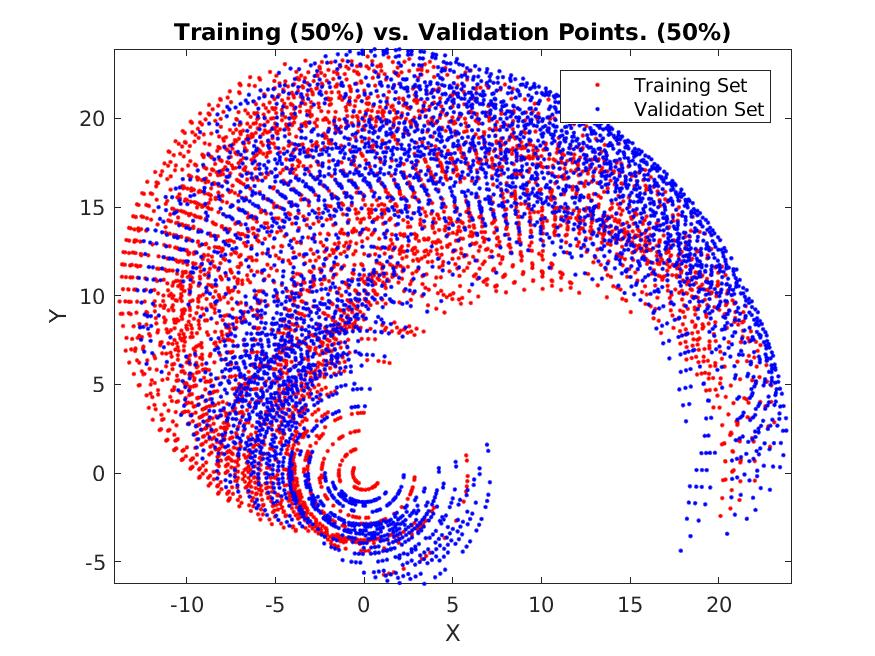
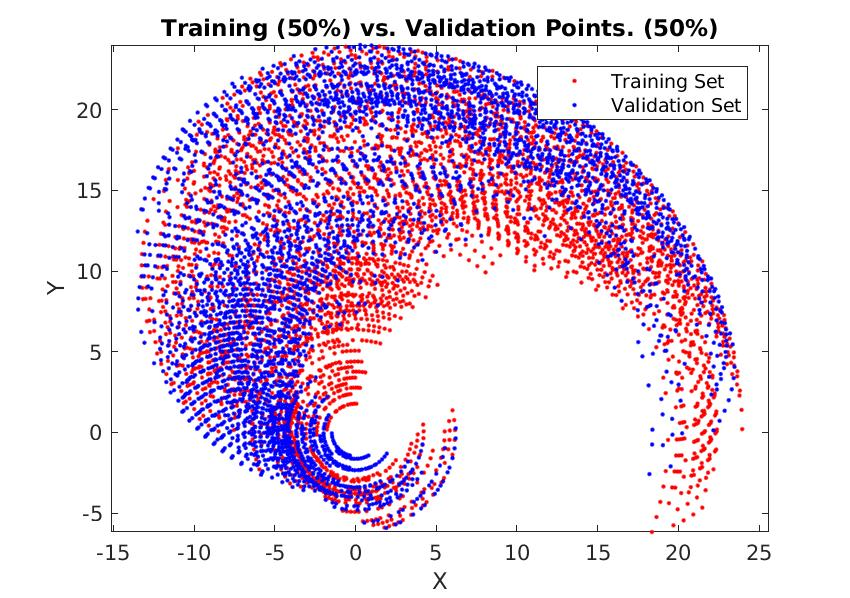
Thurs Start

diff --git a/anfis_part1.m b/anfis_part1.m
@@ -3,7 +3,7 @@
 clc, cla
 
 %Split of data (validation set is 1-trn_data_per)
-trn_data_per = 0.7;
+trn_data_per = 0.5;
 
 
 %Link lengths
@@ -16,6 +16,12 @@ l_3 = 7;
 th_1 = 0:0.05:pi/2;
 th_2 = 0:0.1:pi;
 th_3 = -pi/2:0.1:pi/2;
+
+%ANFIS Epochs
+
+th_1_epoch = 200;
+th_2_epoch = 200;
+th_3_epoch = 200;
 
 %% Generate data
 
@@ -79,3 +85,37 @@ title(['Training (' num2str(trn_data_per*100) '%) vs. Validation Points. (' num2
 legend;
 saveas(figure(1),['trnvsval' num2str(trn_data_per*100) '.jpg'])
 
+%% Generate the initial fuzzy inference system
+
+th_1_fismat = genfis2(th_1_data_trn(:,1:3), th_1_data_trn(:,4),0.2);
+th_2_fismat = genfis2(th_1_data_trn(:,1:3), th_1_data_trn(:,4),0.2);
+th_3_fismat = genfis2(th_1_data_trn(:,1:3), th_1_data_trn(:,4),0.2);
+
+%%
+
+fprintf('-->%s\n','Training theta_1 ANFIS network.')
+opt = anfisOptions('InitialFIS',th_1_fismat,'EpochNumber',th_1_epoch);
+opt.DisplayANFISInformation = 0;
+opt.DisplayErrorValues = 0;
+opt.DisplayStepSize = 0;
+opt.DisplayFinalResults = 0;
+opt.ValidationData = th_1_data_val;
+[th_1_anfis,th_1_trnErr,th_1_ss,th_1_valAnfis,th_1_valErr] = anfis(th_1_data_trn,opt);
+
+fprintf('-->%s\n','Training theta_2 ANFIS network.')
+opt = anfisOptions('InitialFIS',th_2_fismat,'EpochNumber',th_2_epoch);
+opt.DisplayANFISInformation = 0;
+opt.DisplayErrorValues = 0;
+opt.DisplayStepSize = 0;
+opt.DisplayFinalResults = 0;
+opt.ValidationData = th_2_data_val;
+[th_2_anfis,th_2_trnErr,th_2_ss,th_2_valAnfis,th_2_valErr] = anfis(th_2_data_trn,opt);
+
+fprintf('-->%s\n','Training theta_3 ANFIS network.')
+opt = anfisOptions('InitialFIS',th_3_fismat,'EpochNumber',th_3_epoch);
+opt.DisplayANFISInformation = 0;
+opt.DisplayErrorValues = 0;
+opt.DisplayStepSize = 0;
+opt.DisplayFinalResults = 0;
+opt.ValidationData = th_3_data_val;
+[th_3_anfis,th_3_trnErr,th_3_ss,th_3_valAnfis,th_3_valErr] = anfis(th_3_data_trn,opt);

diff --git a/IAS_report.tex b/IAS_report.tex
@@ -193,6 +193,8 @@
 \section{Introduction}
 For the application of the fuzzy inference system the Takagi-Sugeno system is widely used for ANFIS models, and is indeed the implementation used within the MATLAB functions \textit{anfis} and \textit{genfis}.
 
+The validation step is extremely important as it helps to prevent over-fitting to the training data.
+
 Due to some weakness in the backpropagation algorithm, the learning algorithm used for the adaptive network is a hybrid learning algorithm.
 
 
